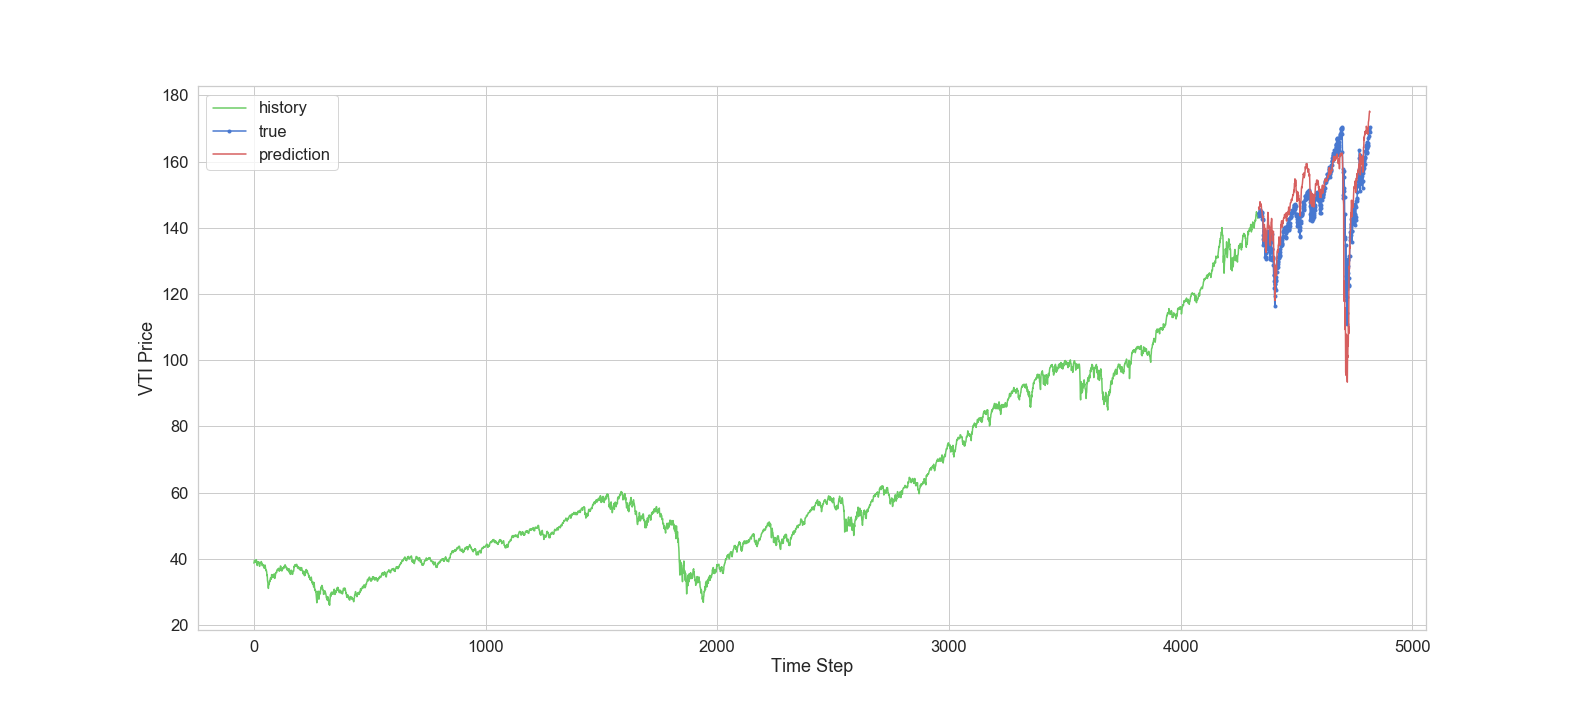
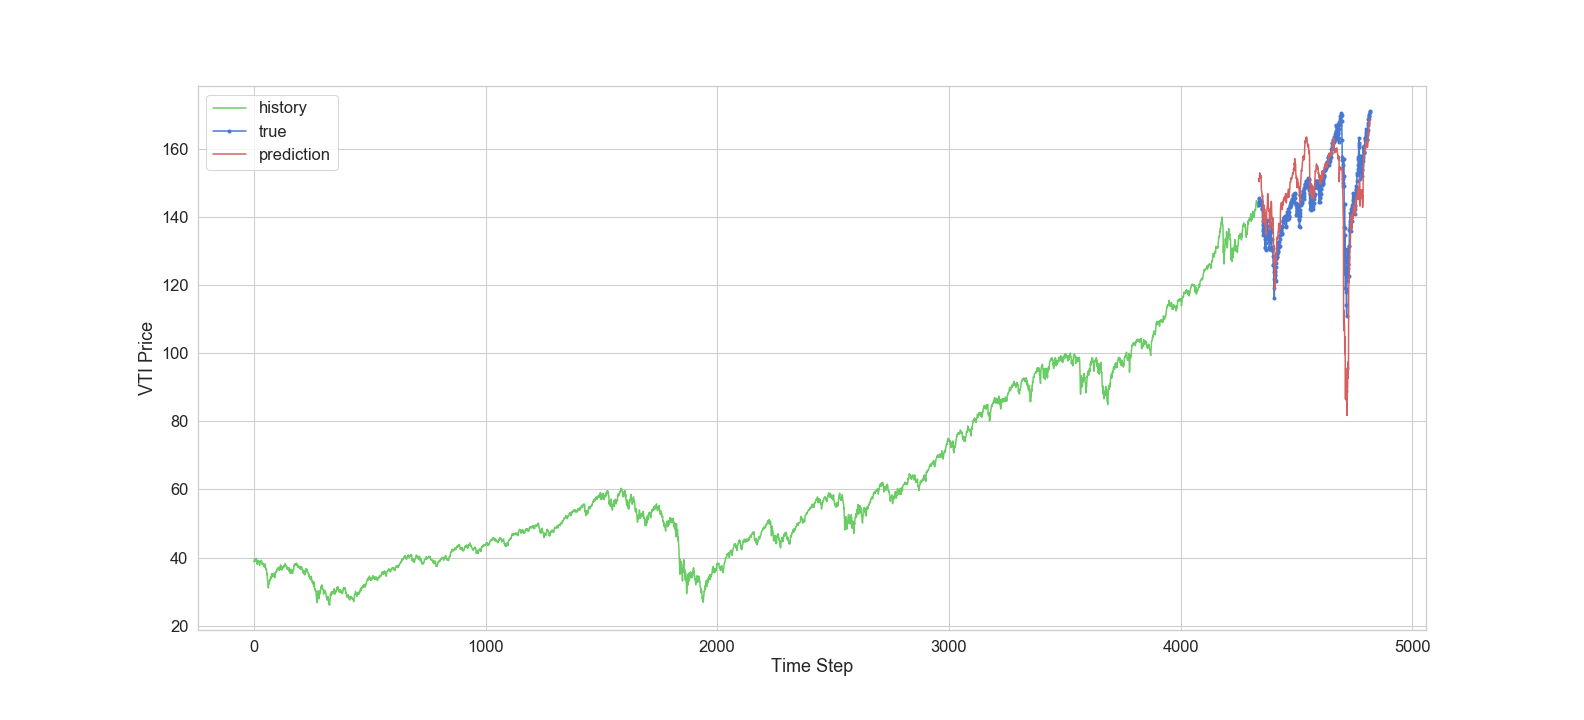
update readme to include rolling forecast and update images

diff --git a/README.md b/README.md
@@ -2,19 +2,9 @@
 
 ## <em>A model to predict the unpredictable</em>
 
-Why it would be advantageous to be able to predict the price of stocks is almost self-evident. Many say it is not possible, with the most common rational being "if it were possible everyone would be doing it."
+So many interesting metrics in life are predicated on their history. To tell the truth, I don't find stocks to be nearly as interesting as topics like people's interest over time, preferences over time, and general behavioral change over time. However, an accessible public stream of this data is not easy to find (if it's even possible). Knowing that methods are largely the same regardless of the data, I decided to use stock data, specifically an ETF (VTI) which is an amalgamation of multiple holdings.
 
-As much as that might make sense on the surface, I don't believe it to be a logical certainty for the following reasons:
-
-<ol>
-<li>Models currently <em>are</em> used to successfully buy and sell stocks</li> 
-<li>It's very possible that the ratio of people who have the skills to make a prediction model is not high enough to affect the market</li>
-<li>And Lastly, it's possible that the yield is not high enough to be advantageous to serious buyers.</li>
-</ol>
-
-However, I am never serious about anything, and if I could make something that could make \$15 a month it would still be more money than I'm making on anything else these days. Thus, I believe this is a worthwhile endeavor.
-
-I hardly think I'm going to get rich off of this project, but I do hope that I can at least utilize Long Short Term Memory and Recurrent Neural Networks well enough to do better than a very basic model. So let's get to it.
+That is all to say, my goal is not at all to get rich off of this project, but I do hope that I can at least utilize Long Short Term Memory and Recurrent Neural Networks well enough to do better than a very basic model, and be able to transfer my knowledge to other topics in the future.
 
 # Data Sourcing:
 
@@ -22,9 +12,7 @@ Our target EFT will be VTI. To source the data history of VTI we use the [yfinan
 
 This is the only data needed for our ARIMA model, however to supplement it for our LSTM model we also use yfinance to collect the histories for the top 10 holdings of our ETF, as well as the DOW.
 
-Also to supplement our LSTM model we use the monthly average of searches for 'vti' on google using google trends. To get this data visit https://trends.google.com/trends and enter 'vti'. Filter the results by date by choosing 'Custom time range' and choosing "From: '01/01/2004' To: today's date" (01/01/2004 is the earliest it will give you results for, I don't know why they allow you to select anything earlier).
-
-Download this data, save it as 'vti_g_trends.csv' and move it into your project folder.
+Also to supplement our LSTM model we use the monthly average of searches for 'vti' on google using google trends. This data is pulled through the [pytrends library](https://pypi.org/project/pytrends/) (thank you John Hogue!)
 
 # Data Cleaning, Feature Selection, and Feature Engineering:
 
@@ -40,25 +28,41 @@ In order to deal with this for our ARIMA model we will difference it once. This 
 <img src='images/train_diff.png'>
 </p>
 
-For our LSTM model, there is more work to do though because there are more features to deal with. First, we need to combine all of our data.
+For our LSTM model, there is more work to do though because there are more features to deal with.
 
-For all of the data from yfinance we can simply concatenate the 'Close' series from each data frame together using an outer join. Because they all have identical timeseries indexes they will line up with each other nicely. The Google trend data needs to be engineered a bit though.
+#### Google Trends
 
-First, we need to move the first row to the column names. Next, we convert the 'Month' column from objects to datetimes and then set that as the index. Lastly, we convert the daily average searches using to_numeric and rename the columns.
+First, the Google trend data needs to be engineered a bit.
+
+Because the data is monthly we need to upsample it to be daily. In most cases the last value will be incomplete (unless you happen to pull it on the last day of the month). Thus, we grab the value of the last full month in order to use it in place of the current month later.
+
+Next it's best to skip down to the VTI and Holdings section, and once that's complete come back here and we will join our trends data to our main data frame.
 
 We can't concatenate the google trend data to our dataframe like we had the other series though, because this data includes weekends. To get around that, we use a left join from our df, thus it only joins the days that our dataframe has indexes for.
 
+After it's joined we'll have NaN's for any day past the first of this month, as well as all days before google existed. For the days in this month we'll fill them with the amount from last month. For the dates before information was taken we'll fill them with the average amount of searches.
+
+#### VTI and Holdings
+
+Preparing the VTI and top 10 holding data is fairly stright forward. First we can simply concatenate the 'Close' series from each dataframe together using an outer join. Because they all have identical timeseries indexes they will line up with each other nicely.
+
 Because we only care about the data related to our target we can truncate the dataframe to start when that data starts ('June 15th, 2001')
 
-Depending on when the data is collected, google trend data is probably incomplete at the end, as it only goes till the first day of the current month. I set it to replace any nan's in the most recent 30 days with 44, which was the average for July 2020. THIS IS NOT NECESSARILY A SUSTAINABLE TECHNIQUE. But it will work for now.
+After doing that you can continue with the last bit of google trends cleaning above, and the DOW below, then come back here.
 
-Because this is older than some stocks they will not have values to begin with. We will fill those values with the stocks min value (which corresponds to their opening price).
+Lastly, because some stocks are younger than VTI, we'll fill the NaN's at their beginning with each stock's lowest value.
 
-For the time that our target predated our google trend data I filled it with the mean count, as people likely would have searched for vti had google existed back then.
+#### DOW
 
-Lastly, in our LSTM model, we need to scale our data. I used sklearn's RobustScaler in order to get acquainted with it.
+If this information is pulled during the day, the dow may not have been reported yet and thus will be NaN. If this is the case, we fill it with the previous day's value.
+
+### Scaling
+
+In order to use an LSTM model in keras you must scale your data. Because it's important to include as much of the information as posible I used a MinMaxScaler as opposed to a RobustScaler, and because the distribution of values isn't normal we couldn't use a StandardScaler.
 
 # Modeling
+
+### ARIMA
 
 In order to use our ARIMA model as a baseline to test our LSTM model against we split the data in the same way, using 90% as training and the last 10% as testing. After being trained our model's predictions achieve a Mean Absolute Error of 12.68. Visually, it is very clear that our ARIMA model was not able to deal with the effects of COVID-19
 
@@ -66,20 +70,42 @@ In order to use our ARIMA model as a baseline to test our LSTM model against we 
 <img src='images/ARIMA_preds_vs_true.png'>
 </p>
 
-Our LSTM model did substantially better though, achieving a mean absolute error of 5.35. They say a picture is worth a thousand words, and the difference between these two says it all:
+### LSTM 90 training / 10 testing split
+
+Our LSTM model did substantially better though, achieving a root mean squared error of 4.52 and a mean absolute error of 3.21. Viewing the difference between these two results says a lot:
 
 <p align='center'>
 <img src='images/lstm_preds_vs_true.png'>
 </p>
 
+It's clear that the LSTM model picks up much more of the changes to the price when the pandemic caused it to fluxuate wildly.
+
+To see how this would work as an investement strategy I created a funtion to turn the predictions into binary values showing either whether the next days price would be higher or lower, and then created a function to invest or sell based on the predictions. Despite picking up on trends, it would not be a successful investement strategy, gardnering $848.18, while just buying and holding over the saewould have your shares worth $1,177.40.
+
+### LSTM Rolling Predictions
+
+In practice, what we would want to do is train using all data up through today, and then predict the price for tomorrow. To see how this would compare with our benchmark and our split LSTM model.
+
+To emulate the process of making predictions over this time, we created a loop that iterated through the time period and consistenly trained a new model based on the new history.
+
+The results of this method were less accurate than one would think. We got an RMSE of 31.13 and an MAE of 26.19. Our graph shows how inconsistent the predictions were.
+
+<p align='center'>
+<img src='images/up_to_date_preds_vs_true.png'>
+</p>
+
+Using this as an investement strategy, however, was even more surprising. Despite having poor evaluation metrics, investing based on these predictions would leave us with $1361.85, as opposed to the $1191.09
+
+(note, fluxuation in the price of VTI between running these models changed what the ending value would be.)
+
 # Conclusion:
 
-Our LSTM model is clearly better than our simple ARIMA model, however, is it good enough to bet on? I would say no. Considering that our current MAE is less than the average return, I can't say we'd be any better off using this model than just buying stock and doing nothing with it. The process has given me ideas for further developments though.
+The black box model is certainly a black box. With the amount of noise we can see though this may not be a model we would want to bet on.
 
 In the future, I would like to:
 
 <ul>
-<li>Simplify the model to a binary classification model of simply "Buy" and "Sell" and see plot predicted returns using that method.</li>
-<li>Experiment with increasing the frequency of collecting stocks to compare mid-day trends rather than end of day</li>
-<li>Create a user-friendly frontend and automate the collection of google trend data, so someone could run this model from a website just by knowing an ETF and it's top 10 holdings</li>
+<li>Test the rolling model over periods with different price patterns</li>
+<li>Experiment with increasing the frequency of collecting stocks to compare mid-day trends rather than end of day. This was not possible with this API, but building something to collect the information is within reason.</li>
+<li>Create a user-friendly frontend so someone could run this model from a website just by knowing an ETF and it's top 10 holdings</li>
 </ul>
